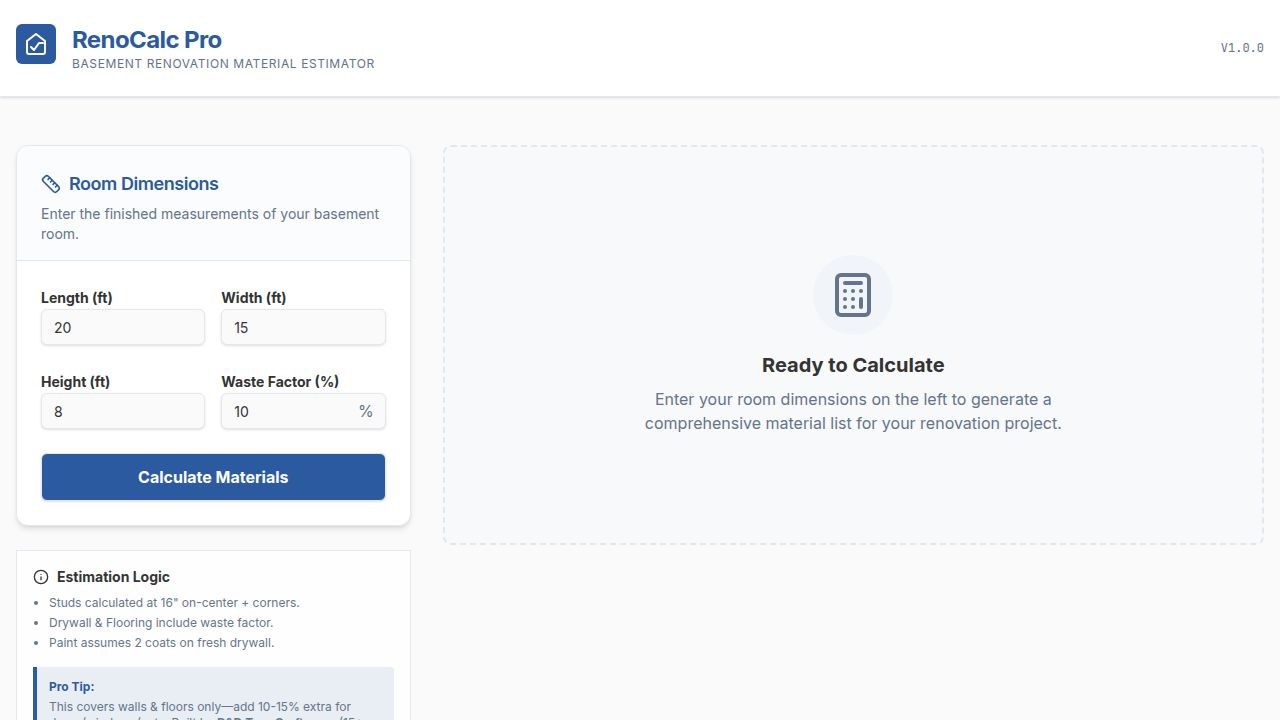
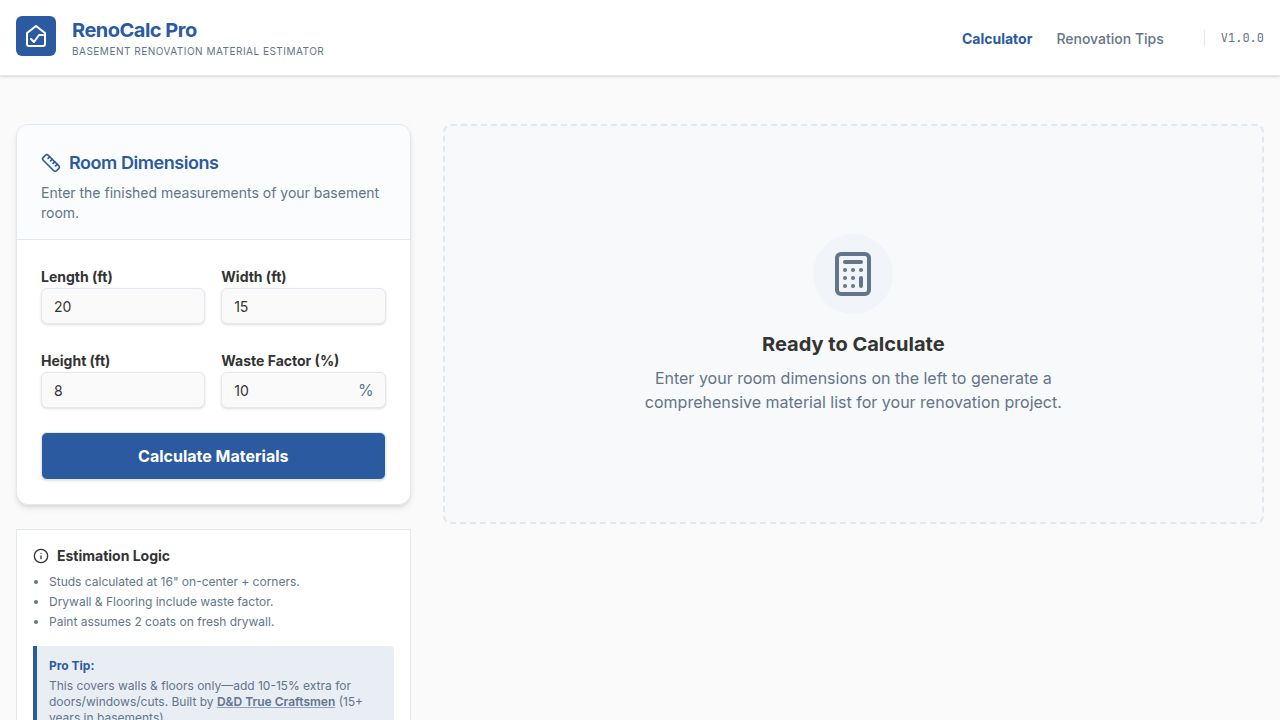
Add a blog section with articles and navigation links
Introduces new routes for `/blog` and `/blog/:id` to display a list of articles and individual blog posts. Updates the header component to include navigation links to the new blog section.

Replit-Commit-Author: Agent
Replit-Commit-Session-Id: 7ecece92-fa18-4174-835e-386bd97fea10
Replit-Commit-Checkpoint-Type: full_checkpoint
Replit-Commit-Event-Id: 4fa31709-47b5-412a-8d17-71073d1e92b5
Replit-Commit-Screenshot-Url: https://storage.googleapis.com/screenshot-production-us-central1/a5c9348d-222b-40e1-9e07-dc52a5579db1/7ecece92-fa18-4174-835e-386bd97fea10/EhEpLdf
Replit-Helium-Checkpoint-Created: true

diff --git a/client/src/pages/blog-post.tsx b/client/src/pages/blog-post.tsx
@@ -1,0 +1,120 @@
+import { useRoute, Link } from "wouter";
+import { Header } from "@/components/layout/header";
+import { Badge } from "@/components/ui/badge";
+import { Button } from "@/components/ui/button";
+import { CalendarDays, Clock, User, ArrowLeft, Share2 } from "lucide-react";
+
+// Mock Data (same as blog.tsx for simplicity in this mockup)
+const BLOG_POSTS = {
+  "1": {
+    title: "5 Common Basement Renovation Mistakes",
+    content: `
+      <p>Finishing a basement is one of the most rewarding home improvement projects, adding valuable living space and increasing your home's value. However, below-grade environments present unique challenges that, if ignored, can lead to costly repairs later.</p>
+      
+      <h3>1. Ignoring Moisture Issues</h3>
+      <p>The #1 enemy of any basement is water. Before you frame a single wall, you must address any moisture intrusion. Tape a 2x2 foot piece of plastic to the concrete floor and wall. If condensation forms underneath after 24 hours, you have hydrostatic pressure or moisture wicking through the concrete. Seal it before you cover it!</p>
+
+      <h3>2. Using Organic Materials on Concrete</h3>
+      <p>Never place untreated wood directly on a concrete slab. It will wick moisture and rot. Use a pressure-treated bottom plate or a foam sill gasket as a capillary break.</p>
+
+      <h3>3. Poor Lighting Layout</h3>
+      <p>Basements are naturally dark. Don't rely on a single center fixture. Plan for recessed lighting (pot lights) in a grid pattern. Dimmers are your best friend for creating ambiance in a multipurpose space.</p>
+
+      <h3>4. Forgetting Access Panels</h3>
+      <p>Your basement likely houses main shut-offs, cleanouts, and junction boxes. Don't drywall over them! Install clean, discrete access panels so you can reach them in an emergency.</p>
+
+      <h3>5. Skimping on Soundproofing</h3>
+      <p>If you're building a media room or home office, standard drywall won't block the sound of footsteps from upstairs. Consider using resilient channel (RC-1) or specialized sound-dampening drywall (like QuietRock) for the ceiling.</p>
+    `,
+    date: "Feb 15, 2026",
+    readTime: "5 min read",
+    author: "Dave (Master Carpenter)",
+    category: "Planning",
+    image: "https://images.unsplash.com/photo-1513694203232-719a280e022f?auto=format&fit=crop&q=80&w=1200"
+  },
+  "2": {
+    title: "Drywall vs. Plaster: What's Best for Basements?",
+    content: `
+      <p>When it comes to finishing basement walls, the material choice matters more than you might think. While standard drywall is the industry standard for above-grade rooms, basements require materials that can withstand potential humidity.</p>
+      
+      <h3>Standard Drywall</h3>
+      <p>Paper-faced gypsum board. It's cheap and easy to finish, but the paper face is food for mold if it gets wet. Avoid using standard drywall in bathrooms or laundry areas.</p>
+
+      <h3>Moisture-Resistant (Green/Purple Board)</h3>
+      <p>These panels have a treated core and facer that resists moisture absorption. They are highly recommended for basement bathrooms and potentially the lower 4 feet of all basement walls if you live in a flood-prone area.</p>
+
+      <h3>Cement Board</h3>
+      <p>Indestructible by water. Use this as a tile backer in showers. It's heavy and hard to cut, so don't use it for general walls.</p>
+
+      <h3>The Verdict</h3>
+      <p>For most dry basements, standard drywall is acceptable for walls, but upgrading to mold-resistant board gives you cheap insurance against musty smells and mold growth behind the paint.</p>
+    `,
+    date: "Feb 10, 2026",
+    readTime: "4 min read",
+    author: "Sarah (Interior Design)",
+    category: "Materials",
+    image: "https://images.unsplash.com/photo-1504307651254-35680f356dfd?auto=format&fit=crop&q=80&w=1200"
+  }
+};
+
+export default function BlogPost() {
+  const [match, params] = useRoute("/blog/:id");
+  const id = params?.id as string;
+  const post = BLOG_POSTS[id as keyof typeof BLOG_POSTS] || BLOG_POSTS["1"]; // Fallback to first post if ID not found
+
+  return (
+    <div className="min-h-screen bg-background font-sans text-foreground flex flex-col">
+      <Header />
+      
+      <main className="container mx-auto px-4 py-8 flex-grow max-w-4xl">
+        <Link href="/blog">
+          <Button variant="ghost" className="mb-6 pl-0 hover:bg-transparent hover:text-primary gap-2">
+            <ArrowLeft className="h-4 w-4" /> Back to Articles
+          </Button>
+        </Link>
+
+        <article className="prose prose-slate lg:prose-lg max-w-none">
+          <div className="relative h-64 md:h-96 rounded-2xl overflow-hidden mb-8 shadow-md">
+            <img 
+              src={post.image} 
+              alt={post.title} 
+              className="w-full h-full object-cover"
+            />
+            <div className="absolute top-4 left-4">
+              <Badge className="bg-background/90 text-foreground hover:bg-background/100 backdrop-blur-sm">
+                {post.category}
+              </Badge>
+            </div>
+          </div>
+
+          <div className="flex items-center gap-4 text-sm text-muted-foreground mb-4">
+            <span className="flex items-center gap-1"><CalendarDays className="h-4 w-4" /> {post.date}</span>
+            <span className="flex items-center gap-1"><Clock className="h-4 w-4" /> {post.readTime}</span>
+            <span className="flex items-center gap-1"><User className="h-4 w-4" /> {post.author}</span>
+          </div>
+
+          <h1 className="text-3xl md:text-5xl font-bold tracking-tight text-primary mb-8">{post.title}</h1>
+
+          <div 
+            className="text-foreground leading-relaxed space-y-4 [&>h3]:text-xl [&>h3]:font-bold [&>h3]:text-primary [&>h3]:mt-8 [&>h3]:mb-2"
+            dangerouslySetInnerHTML={{ __html: post.content }} 
+          />
+        </article>
+
+        <div className="border-t mt-12 pt-8 flex justify-between items-center">
+          <p className="font-bold text-lg">Share this article</p>
+          <Button variant="outline" size="sm" className="gap-2" onClick={() => {
+            navigator.clipboard.writeText(window.location.href);
+            alert("Link copied to clipboard!");
+          }}>
+            <Share2 className="h-4 w-4" /> Copy Link
+          </Button>
+        </div>
+      </main>
+
+      <footer className="border-t py-8 text-center text-sm text-muted-foreground bg-muted/30 mt-12">
+        <p>&copy; 2026 RenoCalc Pro. Built by D&D True Craftsmen.</p>
+      </footer>
+    </div>
+  );
+}

diff --git a/client/src/pages/blog.tsx b/client/src/pages/blog.tsx
@@ -1,0 +1,128 @@
+import { Card, CardContent, CardDescription, CardFooter, CardHeader, CardTitle } from "@/components/ui/card";
+import { Badge } from "@/components/ui/badge";
+import { Button } from "@/components/ui/button";
+import { CalendarDays, Clock, User, ArrowRight, BookOpen } from "lucide-react";
+import { Header } from "@/components/layout/header";
+import { Link } from "wouter";
+
+// Mock Data
+const BLOG_POSTS = [
+  {
+    id: 1,
+    title: "5 Common Basement Renovation Mistakes",
+    excerpt: "Avoid these costly errors when planning your basement finish. From moisture control to lighting layout, here's what the pros know.",
+    date: "Feb 15, 2026",
+    readTime: "5 min read",
+    author: "Dave (Master Carpenter)",
+    category: "Planning",
+    image: "https://images.unsplash.com/photo-1513694203232-719a280e022f?auto=format&fit=crop&q=80&w=800"
+  },
+  {
+    id: 2,
+    title: "Drywall vs. Plaster: What's Best for Basements?",
+    excerpt: "Understanding the differences between standard drywall, moisture-resistant green board, and traditional plaster for below-grade applications.",
+    date: "Feb 10, 2026",
+    readTime: "4 min read",
+    author: "Sarah (Interior Design)",
+    category: "Materials",
+    image: "https://images.unsplash.com/photo-1504307651254-35680f356dfd?auto=format&fit=crop&q=80&w=800"
+  },
+  {
+    id: 3,
+    title: "Understanding R-Value: Insulation 101",
+    excerpt: "Why R13 might not be enough for your climate zone. A comprehensive guide to fiberglass batts, rigid foam, and spray foam options.",
+    date: "Jan 28, 2026",
+    readTime: "7 min read",
+    author: "Mike (Energy Specialist)",
+    category: "Insulation",
+    image: "https://images.unsplash.com/photo-1588880331179-bc9b93a8cb5e?auto=format&fit=crop&q=80&w=800"
+  },
+  {
+    id: 4,
+    title: "Flooring Options for Concrete Subfloors",
+    excerpt: "LVP, Laminate, or Carpet? We rank the top flooring choices for durability, moisture resistance, and warmth underfoot.",
+    date: "Jan 15, 2026",
+    readTime: "6 min read",
+    author: "Dave (Master Carpenter)",
+    category: "Flooring",
+    image: "https://images.unsplash.com/photo-1581091226825-a6a2a5aee158?auto=format&fit=crop&q=80&w=800"
+  }
+];
+
+export default function Blog() {
+  return (
+    <div className="min-h-screen bg-background font-sans text-foreground flex flex-col">
+      <Header />
+      
+      <main className="container mx-auto px-4 py-12 flex-grow">
+        <div className="text-center max-w-2xl mx-auto mb-16">
+          <Badge className="mb-4" variant="outline">Expert Advice</Badge>
+          <h1 className="text-4xl font-bold tracking-tight text-primary mb-4">Renovation Knowledge Base</h1>
+          <p className="text-muted-foreground text-lg">
+            Tips, tricks, and material guides from the D&D True Craftsmen team to help you plan your next project.
+          </p>
+        </div>
+
+        <div className="grid md:grid-cols-2 lg:grid-cols-3 gap-8">
+          {BLOG_POSTS.map((post) => (
+            <Card key={post.id} className="flex flex-col overflow-hidden hover:shadow-lg transition-shadow border-muted">
+              <div className="h-48 overflow-hidden relative">
+                <img 
+                  src={post.image} 
+                  alt={post.title} 
+                  className="w-full h-full object-cover transition-transform hover:scale-105 duration-500"
+                />
+                <Badge className="absolute top-4 right-4 bg-background/90 text-foreground hover:bg-background/100">
+                  {post.category}
+                </Badge>
+              </div>
+              <CardHeader className="pb-2">
+                <div className="flex items-center gap-4 text-xs text-muted-foreground mb-2">
+                  <span className="flex items-center gap-1"><CalendarDays className="h-3 w-3" /> {post.date}</span>
+                  <span className="flex items-center gap-1"><Clock className="h-3 w-3" /> {post.readTime}</span>
+                </div>
+                <CardTitle className="line-clamp-2 text-xl group-hover:text-primary transition-colors">
+                  <Link href={`/blog/${post.id}`} className="hover:text-primary">
+                    {post.title}
+                  </Link>
+                </CardTitle>
+              </CardHeader>
+              <CardContent className="flex-grow">
+                <CardDescription className="line-clamp-3 text-sm">
+                  {post.excerpt}
+                </CardDescription>
+              </CardContent>
+              <CardFooter className="pt-0 border-t bg-muted/20 mt-auto p-4 flex justify-between items-center">
+                <div className="flex items-center gap-2 text-xs font-medium text-muted-foreground">
+                  <User className="h-3 w-3" /> {post.author}
+                </div>
+                <Button variant="ghost" size="sm" className="gap-1 text-primary hover:text-primary-dark p-0 hover:bg-transparent" asChild>
+                  <Link href={`/blog/${post.id}`}>
+                    Read Article <ArrowRight className="h-3 w-3" />
+                  </Link>
+                </Button>
+              </CardFooter>
+            </Card>
+          ))}
+        </div>
+
+        <div className="mt-16 bg-primary/5 rounded-2xl p-8 md:p-12 text-center">
+          <BookOpen className="h-12 w-12 text-primary mx-auto mb-4 opacity-50" />
+          <h2 className="text-2xl font-bold mb-4">Need personalized advice?</h2>
+          <p className="text-muted-foreground max-w-xl mx-auto mb-6">
+            Our material calculator is a great start, but every basement is unique. Contact our team for a professional consultation.
+          </p>
+          <Button asChild>
+            <a href="https://www.ddtruecraftsmen.com" target="_blank" rel="noopener noreferrer">
+              Contact D&D True Craftsmen
+            </a>
+          </Button>
+        </div>
+      </main>
+
+      <footer className="border-t py-8 text-center text-sm text-muted-foreground bg-muted/30">
+        <p>&copy; 2026 RenoCalc Pro. Built by D&D True Craftsmen.</p>
+      </footer>
+    </div>
+  );
+}

diff --git a/client/src/components/layout/header.tsx b/client/src/components/layout/header.tsx
@@ -1,0 +1,59 @@
+import { Link, useLocation } from "wouter";
+import { cn } from "@/lib/utils";
+
+function HomeCalculatorIcon({ className }: { className?: string }) {
+  return (
+    <svg 
+      xmlns="http://www.w3.org/2000/svg" 
+      viewBox="0 0 24 24" 
+      fill="none" 
+      stroke="currentColor" 
+      strokeWidth="2" 
+      strokeLinecap="round" 
+      strokeLinejoin="round" 
+      className={className}
+    >
+      <path d="M3 9l9-7 9 7v11a2 2 0 0 1-2 2H5a2 2 0 0 1-2-2z" />
+      {/* Square Root */}
+      <path d="M7 15l3 3l5 -7h4" />
+    </svg>
+  )
+}
+
+export function Header() {
+  const [location] = useLocation();
+
+  return (
+    <header className="relative z-10 border-b bg-card shadow-sm sticky top-0 no-print">
+      <div className="container mx-auto px-4 py-4 flex items-center justify-between">
+        <Link href="/">
+          <div className="flex flex-col items-center mx-auto sm:mx-0 sm:items-start sm:flex-row sm:gap-4 cursor-pointer">
+            <div className="bg-primary p-2 rounded-md mb-2 sm:mb-0">
+              <HomeCalculatorIcon className="h-6 w-6 text-primary-foreground" />
+            </div>
+            <div className="text-center sm:text-left">
+              <h1 className="text-xl font-bold tracking-tight text-primary">RenoCalc Pro</h1>
+              <p className="text-[10px] text-muted-foreground tracking-wider uppercase">Basement Renovation Material Estimator</p>
+            </div>
+          </div>
+        </Link>
+        
+        <nav className="flex items-center gap-6">
+          <Link href="/">
+            <a className={cn("text-sm font-medium transition-colors hover:text-primary", location === "/" ? "text-primary font-bold" : "text-muted-foreground")}>
+              Calculator
+            </a>
+          </Link>
+          <Link href="/blog">
+            <a className={cn("text-sm font-medium transition-colors hover:text-primary", location.startsWith("/blog") ? "text-primary font-bold" : "text-muted-foreground")}>
+              Renovation Tips
+            </a>
+          </Link>
+          <div className="hidden sm:block text-xs text-muted-foreground font-mono ml-4 border-l pl-4">
+            V1.0.0
+          </div>
+        </nav>
+      </div>
+    </header>
+  );
+}

diff --git a/client/src/pages/home.tsx b/client/src/pages/home.tsx
@@ -64,24 +64,7 @@ type MaterialPrice = {
   primerGallons: number;
 };
 
-function HomeCalculatorIcon({ className }: { className?: string }) {
-  return (
-    <svg 
-      xmlns="http://www.w3.org/2000/svg" 
-      viewBox="0 0 24 24" 
-      fill="none" 
-      stroke="currentColor" 
-      strokeWidth="2" 
-      strokeLinecap="round" 
-      strokeLinejoin="round" 
-      className={className}
-    >
-      <path d="M3 9l9-7 9 7v11a2 2 0 0 1-2 2H5a2 2 0 0 1-2-2z" />
-      {/* Square Root */}
-      <path d="M7 15l3 3l5 -7h4" />
-    </svg>
-  )
-}
+import { Header } from "@/components/layout/header";
 
 export default function Home() {
   const [results, setResults] = useState<CalculationResults | null>(null);
@@ -285,23 +268,7 @@ export default function Home() {
       {/* Background Pattern - Removed for cleaner look */}
       <div className="absolute inset-0 bg-background z-0" />
       
-      {/* Header */}
-      <header className="relative z-10 border-b bg-card shadow-sm sticky top-0 no-print">
-        <div className="container mx-auto px-4 py-6 flex items-center justify-between">
-          <div className="flex flex-col items-center mx-auto sm:mx-0 sm:items-start sm:flex-row sm:gap-4">
-            <div className="bg-primary p-2 rounded-md mb-2 sm:mb-0">
-              <HomeCalculatorIcon className="h-6 w-6 text-primary-foreground" />
-            </div>
-            <div className="text-center sm:text-left">
-              <h1 className="text-2xl font-bold tracking-tight text-primary">RenoCalc Pro</h1>
-              <p className="text-xs text-muted-foreground tracking-wider uppercase">Basement Renovation Material Estimator</p>
-            </div>
-          </div>
-          <div className="hidden sm:block text-right">
-             <div className="text-xs text-muted-foreground font-mono">V1.0.0</div>
-          </div>
-        </div>
-      </header>
+      <Header />
 
       <main className="relative z-10 container mx-auto px-4 py-8 md:py-12 flex-grow">
         <div className="grid lg:grid-cols-12 gap-8 items-start">

diff --git a/client/src/App.tsx b/client/src/App.tsx
@@ -5,11 +5,15 @@ import { Toaster } from "@/components/ui/toaster";
 import { TooltipProvider } from "@/components/ui/tooltip";
 import NotFound from "@/pages/not-found";
 import Home from "@/pages/home";
+import Blog from "@/pages/blog";
+import BlogPost from "@/pages/blog-post";
 
 function Router() {
   return (
     <Switch>
       <Route path="/" component={Home} />
+      <Route path="/blog" component={Blog} />
+      <Route path="/blog/:id" component={BlogPost} />
       <Route component={NotFound} />
     </Switch>
   );
